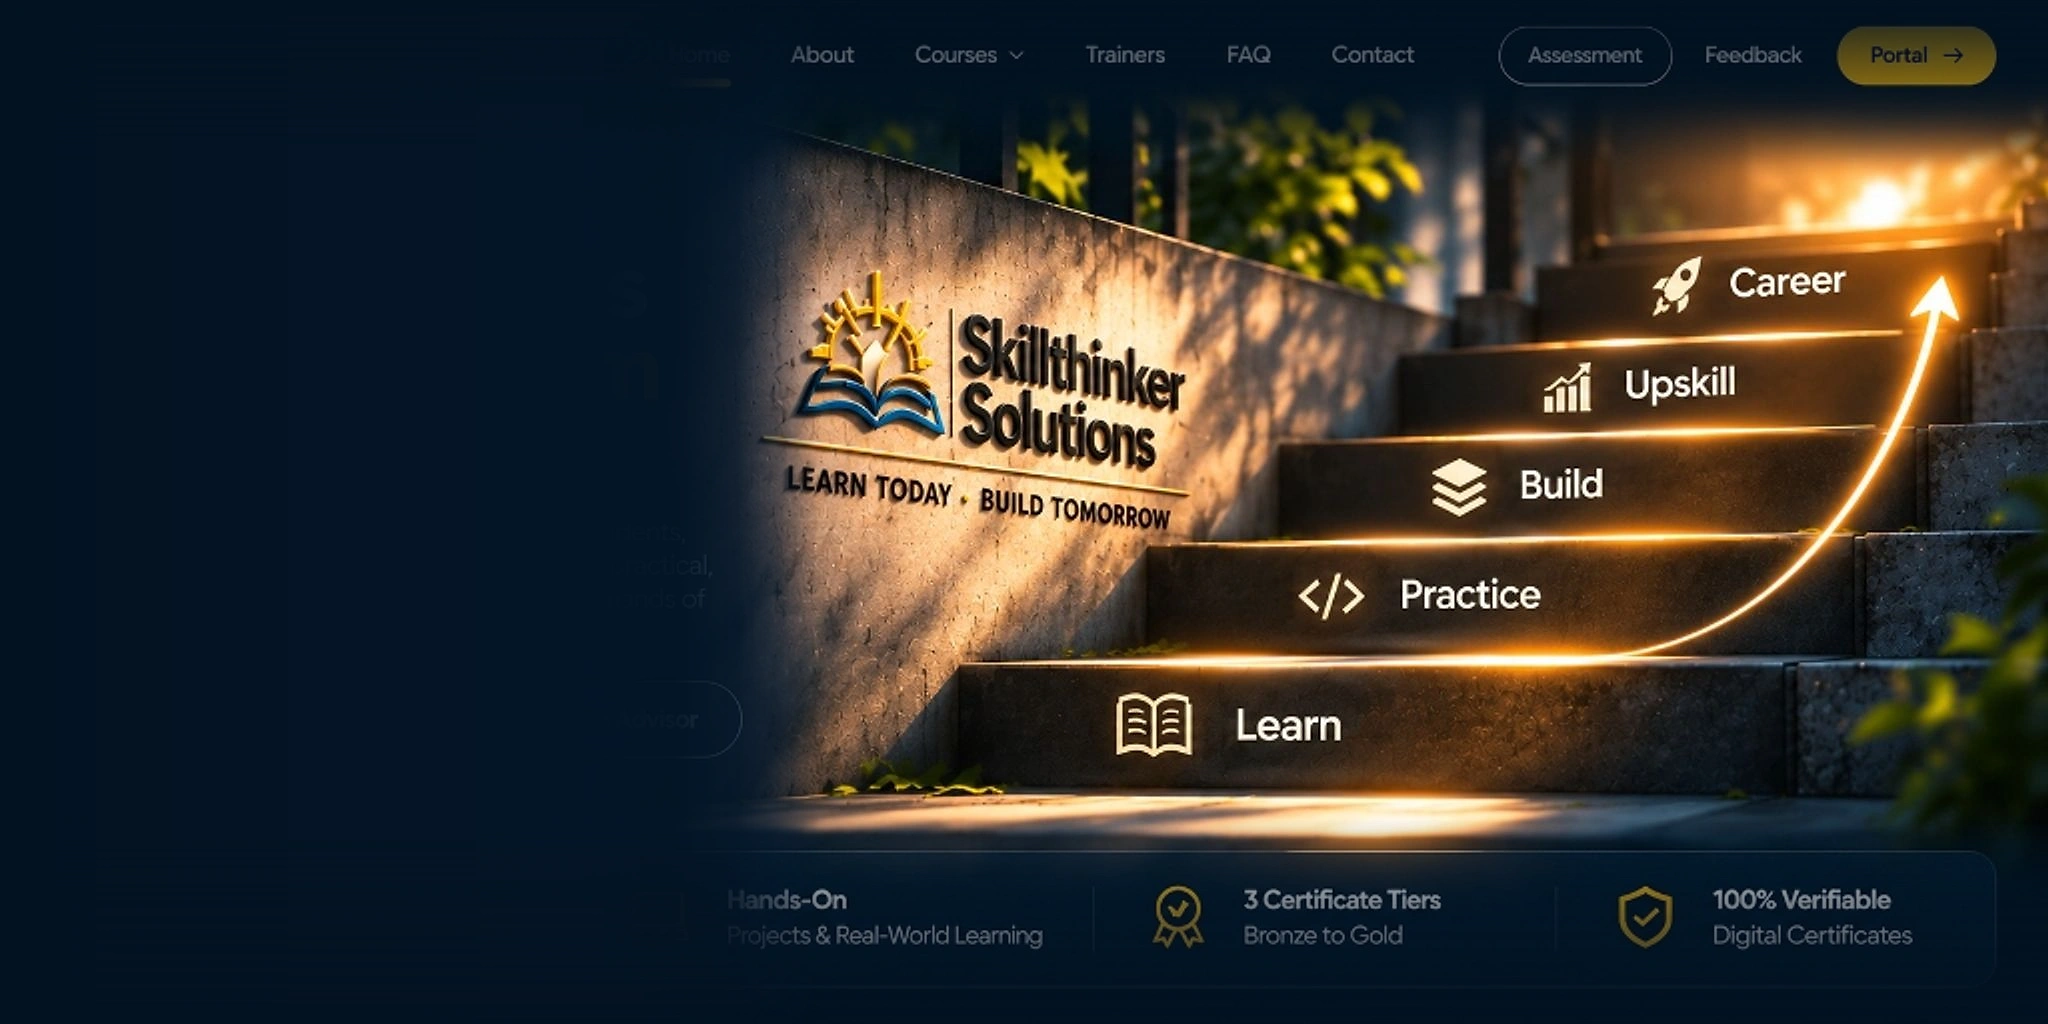
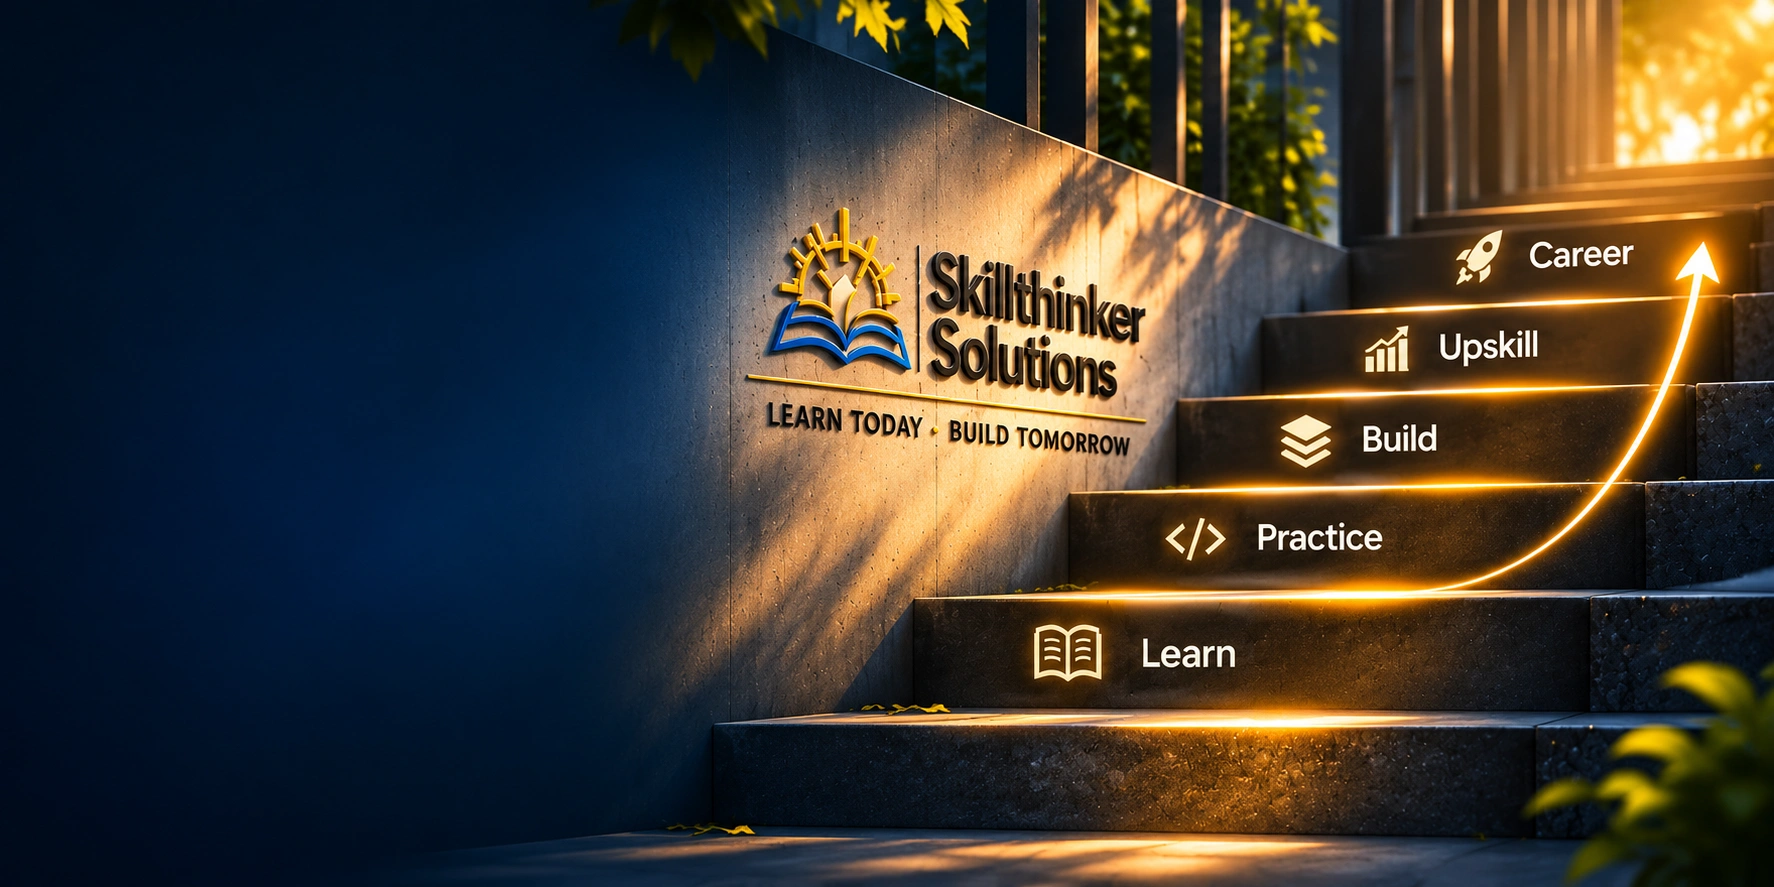
fix(hero): integrate user replaced high-quality backdrop and bypass image cache with unoptimized loader

diff --git a/src/components/sections/HeroSection.tsx b/src/components/sections/HeroSection.tsx
@@ -38,15 +38,16 @@ export default function HeroSection() {
       {/* ── CINEMATIC MASTER BACKGROUND (Unified scene with fine edge gradient blending) ── */}
       <div className="absolute inset-0 z-0 pointer-events-none select-none" aria-hidden="true">
         <Image
-          src="/images/hero-cinematic-master.webp"
+          src="/images/hero-cinematic-backdrop.webp"
           alt="Skillthinker Solutions learning journey: Learn, Practice, Build, Upskill, Career"
           fill
           priority
+          unoptimized
           className="object-cover object-right lg:object-center"
           sizes="100vw"
         />
-        {/* Fine Ambient Atmospheric Vignette */}
-        <div className="absolute inset-0 bg-gradient-to-r from-[#031222]/90 via-[#031222]/30 to-transparent pointer-events-none" />
+        {/* Subtle Edge Vignette */}
+        <div className="absolute inset-0 bg-gradient-to-r from-[#031222]/60 via-[#031222]/10 to-transparent pointer-events-none" />
       </div>
 
       {/* ── MAIN CONTENT CONTAINER (Strictly inside single viewport) ── */}
